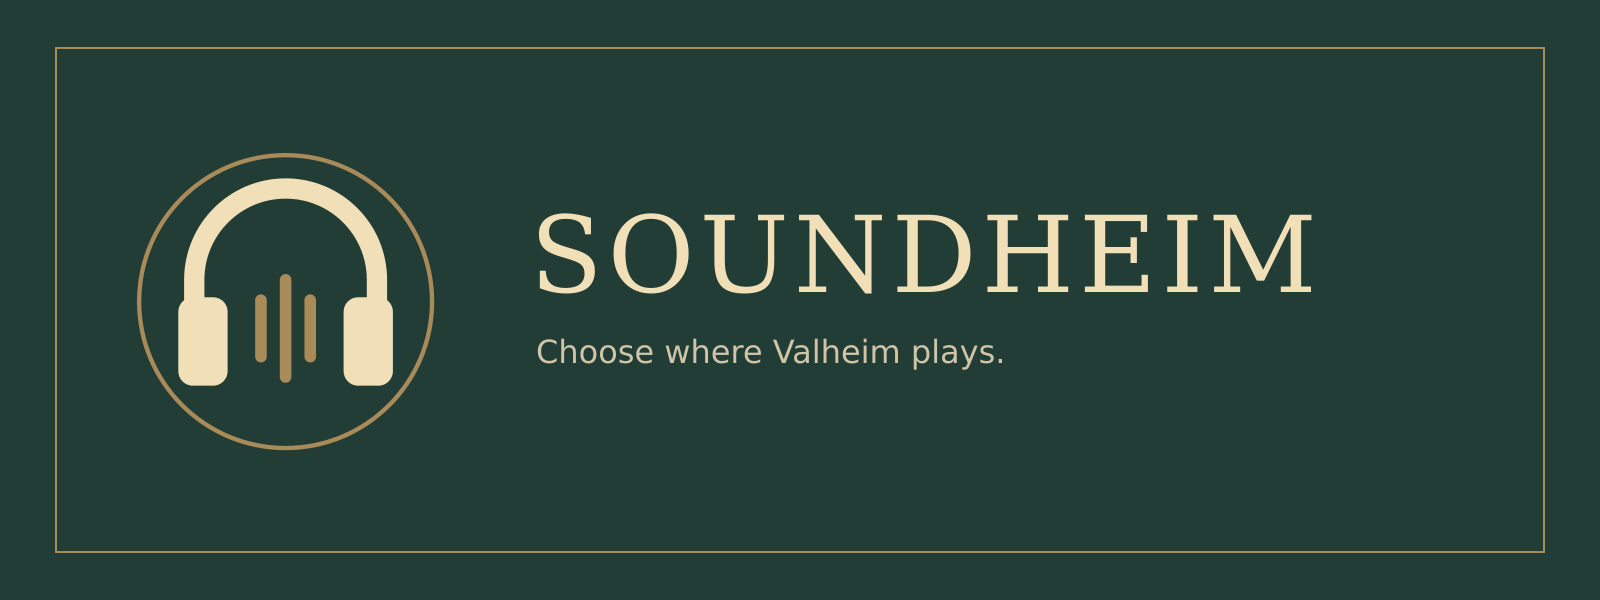
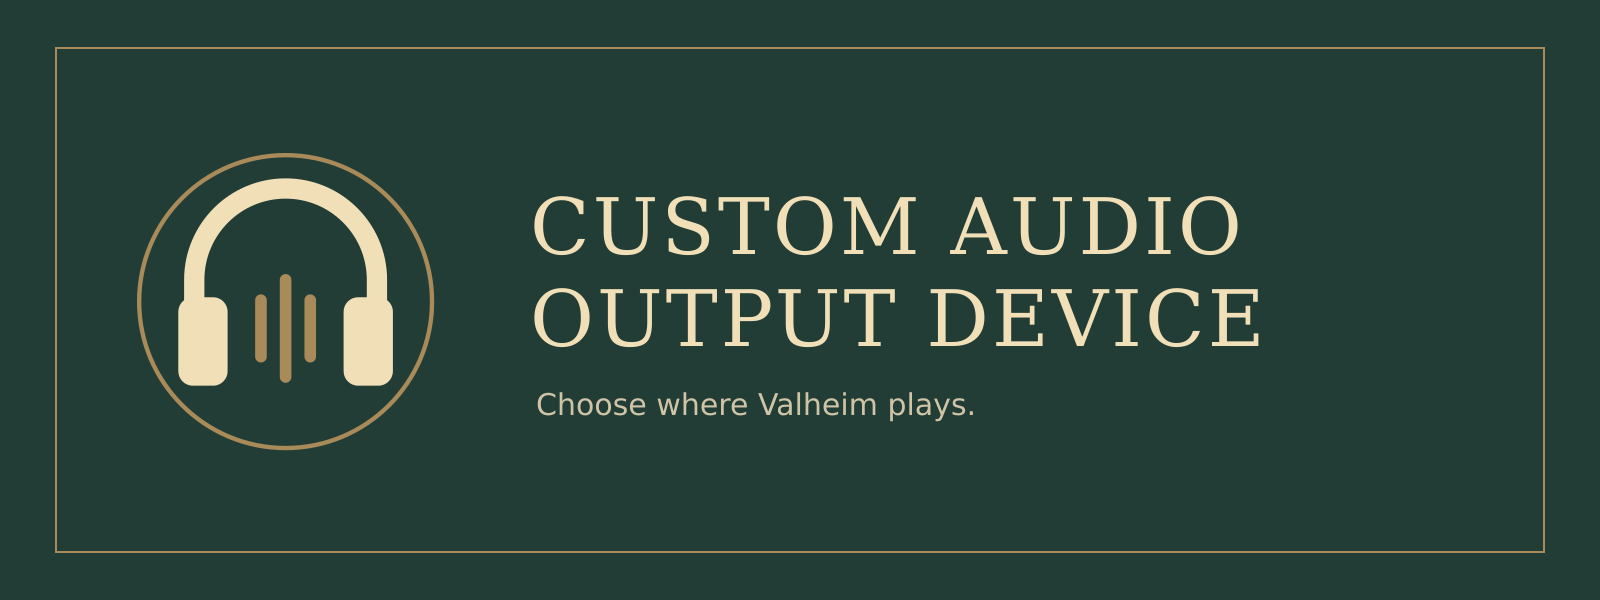
Name the public mod Custom Audio Output Device

Changed region(s): [[0.3125, 0.33, 0.8125, 0.63], [0.3438, 0.66, 0.625, 0.69]]

diff --git a/src/Soundheim/Plugin.cs b/src/Soundheim/Plugin.cs
@@ -10,10 +10,11 @@ using UnityEngine;
 
 namespace Soundheim;
 
-[BepInPlugin(PluginId, "Soundheim", PluginVersion)]
+[BepInPlugin(PluginId, PluginName, PluginVersion)]
 public sealed class Plugin : BaseUnityPlugin
 {
     public const string PluginId = "augusdogus.mods.Soundheim";
+    public const string PluginName = "Custom Audio Output Device";
     public const string PluginVersion = "1.0.0";
 
     internal static Plugin? Instance { get; private set; }
@@ -42,13 +43,13 @@ public sealed class Plugin : BaseUnityPlugin
         using var process = Process.GetCurrentProcess();
         if (Application.platform == RuntimePlatform.LinuxPlayer) backend = new PulseAudioBackend(process.Id, new Pactl().Run);
         else if (Application.platform == RuntimePlatform.WindowsPlayer) backend = new WindowsAudioBackend(process.Id);
-        else { Logger.LogWarning("Soundheim supports Linux and Windows only."); enabled = false; return; }
+        else { Logger.LogWarning($"{PluginName} supports Linux and Windows only."); enabled = false; return; }
         preference = Config.Bind("Audio", "Output device", "", "Stable output identifier. Empty follows the system default. Select a device in Settings > Audio.");
         Selection = preference.Value;
         preference.SettingChanged += PreferenceChanged;
         Instance = this;
         harmony.PatchAll(typeof(NativeAudioSettings).Assembly);
-        Logger.LogInfo("Soundheim loaded. Select your output in Settings > Audio.");
+        Logger.LogInfo($"{PluginName} loaded. Select your output in Settings > Audio.");
     }
 
     internal void Preview(string id)

diff --git a/src/Soundheim/NativeAudioSettings.cs b/src/Soundheim/NativeAudioSettings.cs
@@ -31,7 +31,7 @@ internal sealed class NativeAudioSettings : MonoBehaviour
         TMP_Text? font = lastControl.GetComponentInChildren<TMP_Text>(true);
         if (template == null || font == null)
         {
-            Plugin.Instance.ReportError("Soundheim could not find Valheim's native audio label or dropdown. Check compatibility with this Valheim version.");
+            Plugin.Instance.ReportError($"{Plugin.PluginName} could not find Valheim's native audio label or dropdown. Check compatibility with this Valheim version.");
             return;
         }
         var component = audio.gameObject.AddComponent<NativeAudioSettings>();

diff --git a/src/Soundheim/Properties/AssemblyInfo.cs b/src/Soundheim/Properties/AssemblyInfo.cs
@@ -1,6 +1,6 @@
 using System.Reflection;
 
-[assembly: AssemblyTitle("Soundheim")]
-[assembly: AssemblyProduct("Soundheim")]
+[assembly: AssemblyTitle("Custom Audio Output Device")]
+[assembly: AssemblyProduct("Custom Audio Output Device")]
 [assembly: AssemblyVersion("1.0.0.0")]
 [assembly: AssemblyFileVersion("1.0.0.0")]

diff --git a/README.md b/README.md
@@ -1,8 +1,8 @@
 <p align="center">
-  <img src="package/banner.png" alt="Soundheim: audio output controls for Valheim" width="900">
+  <img src="package/banner.png" alt="Custom Audio Output Device for Valheim" width="900">
 </p>
 
-# Soundheim
+# Custom Audio Output Device
 
 Choose where Valheim plays its audio, directly in **Settings → Audio**.
 Only the player needs this mod. Nothing is installed on the server.
@@ -15,7 +15,7 @@ Only the player needs this mod. Nothing is installed on the server.
 
 **System default** follows your operating system's default output. The mod routes
 Valheim's audio; it does not change the system default or move other applications.
-Device lists refresh automatically. If your selected device disconnects, Soundheim
+Device lists refresh automatically. If your selected device disconnects, the mod
 keeps its preference and retries when it returns.
 
 ## Platforms

diff --git a/docs/DEVELOPMENT.md b/docs/DEVELOPMENT.md
@@ -1,5 +1,9 @@
 # Development
 
+The public mod name is **Custom Audio Output Device** and the Thunderstore
+package identifier is `Custom_Audio_Output_Device`. The repository, project,
+DLL, and existing configuration identity retain the internal name `Soundheim`.
+
 ## Build
 
 Install .NET SDK 8 and Bun 1.4.1 or newer. Run `bun install --frozen-lockfile`
